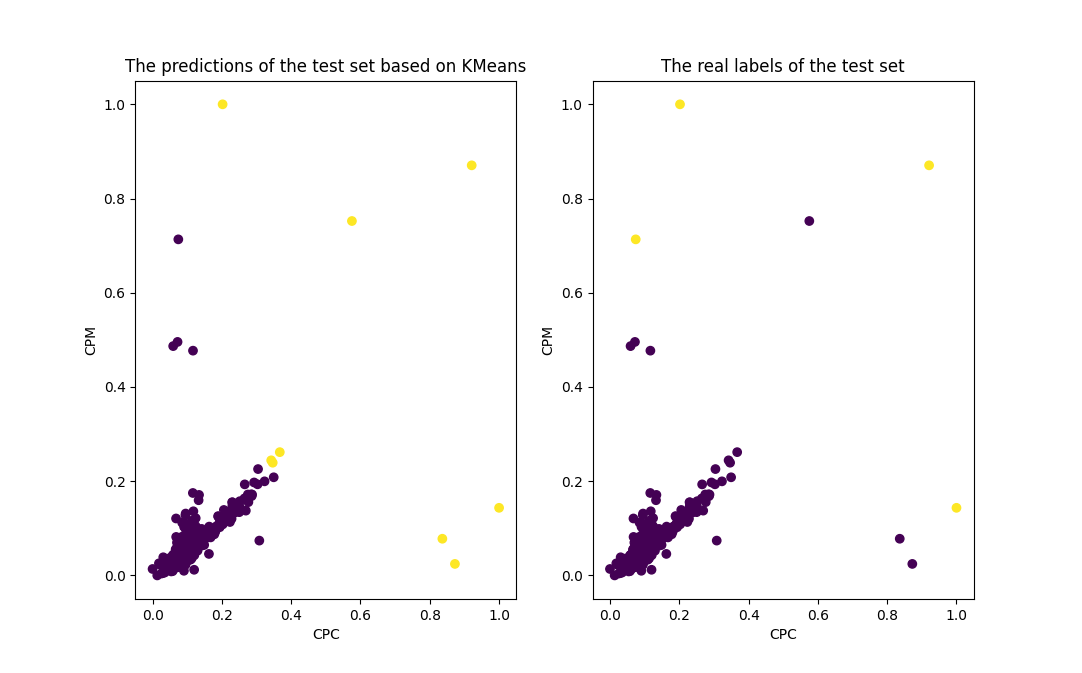
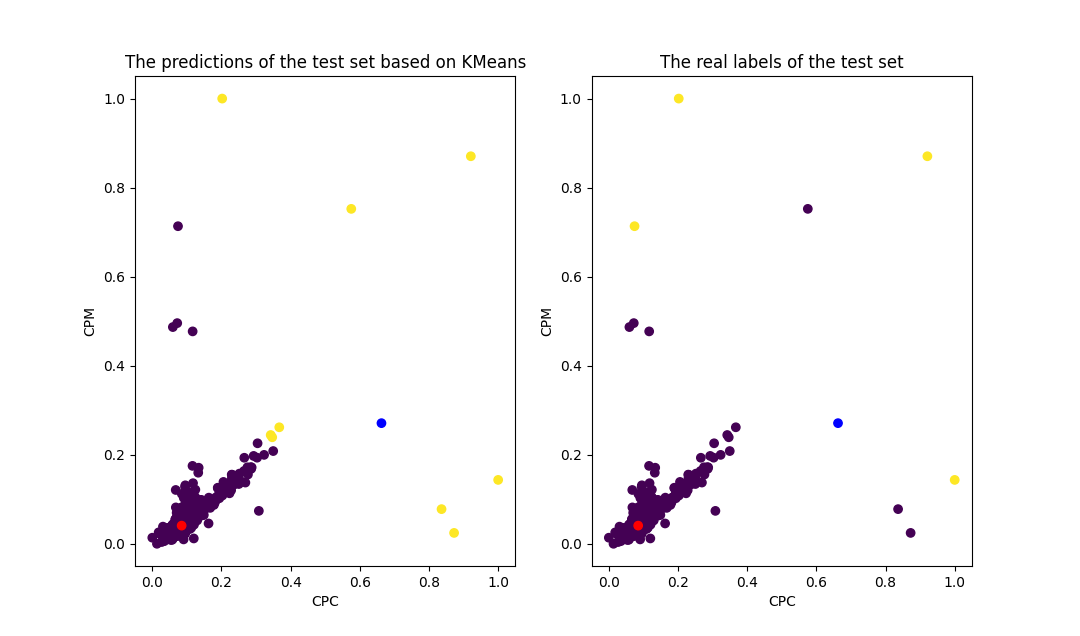
add mykmeans

diff --git a/mykmeans.py b/mykmeans.py
@@ -1,0 +1,94 @@
+import numpy as np
+import pandas as pd
+from sklearn.datasets import make_blobs
+from matplotlib import pyplot as plt
+
+class Kmeans:
+    def __init__(self, k):
+        self.k = k
+
+    def calc_distance(self, x1, x2):
+        diff = x1 - x2
+        distances = np.sqrt(np.square(diff).sum(axis=1))
+        return distances
+
+    def fit(self, x):
+        self.x = x
+        m, n = self.x.shape
+        # 随机选定k个数据作为初始质心，不重复选取
+        self.original_ = np.random.choice(m, self.k, replace=False)
+        # 默认类别是从0到k-1
+        self.original_center = x[self.original_]
+        while True:
+            # 初始化一个字典，以类别作为key，赋值一个空数组
+            dict_y = {}
+            for j in range(self.k):
+                dict_y[j] = np.empty((0, n))
+            for i in range(m):
+                distances = self.calc_distance(x[i], self.original_center)
+                # 把第i个数据分配到距离最近的质心，存放在字典中
+                label = np.argsort(distances)[0]
+                dict_y[label] = np.r_[dict_y[label], x[i].reshape(1, -1)]
+            centers = np.empty((0, n))
+            # 对每个类别的样本重新求质心
+            for i in range(self.k):
+                center = np.mean(dict_y[i], axis=0).reshape(
+                    1, -1)  # reshape转化成1行
+                centers = np.r_[centers, center]
+            # 与上一次迭代的质心比较，如果没有发生变化，则停止迭代（也可考虑收敛时停止）
+            result = np.all(centers == self.original_center)
+            if result == True:
+                return centers # 返回质心,用于绘制聚合的簇心点
+            else:
+                # 继续更新质心
+                self.original_center = centers
+
+    def predict(self, x):
+        y_preds = []
+        m, n = x.shape
+        for i in range(m):
+            distances = self.calc_distance(x[i], self.original_center)
+            y_pred = np.argsort(distances)[0]
+            y_preds.append(y_pred)
+        return y_preds
+
+
+model = Kmeans(k=2)
+df1 = pd.read_csv('train-normalized.csv', usecols=[0, 1, 2, 3])
+xy1 = df1.iloc[:, [1, 2]]
+xy1 = xy1.values
+centers = model.fit(xy1)
+
+# print( model.cluster_centers_, '\n')
+# print( model.inertia_, '\n')
+
+label = df1['is_anomaly']
+df1 = df1.values
+
+df2 = pd.read_csv('test-normalized.csv', usecols=[0, 1, 2, 3])
+xy2 = df2.iloc[:, [1, 2]]
+xy2 = xy2.values
+predict = model.predict(xy2)
+
+label = df2['is_anomaly']
+df2 = df2.values
+
+plt.figure(figsize=(21, 21))
+plt.subplot(1, 2, 1)
+plt.scatter(xy2[:, 0], xy2[:, 1], c=predict)
+plt.scatter(centers[:, 0], centers[:, 1], c=['r','b'])
+plt.xlabel('CPC')
+plt.ylabel('CPM')
+plt.title('The predictions of the test set based on KMeans')
+
+plt.subplot(1, 2, 2)
+plt.scatter(xy2[:, 0], xy2[:, 1], c=label)
+plt.scatter(centers[:, 0], centers[:, 1], c=['r','b'])
+plt.xlabel('CPC')
+plt.ylabel('CPM')
+plt.title('The real labels of the test set')
+
+
+plt.show()
+
+ 
